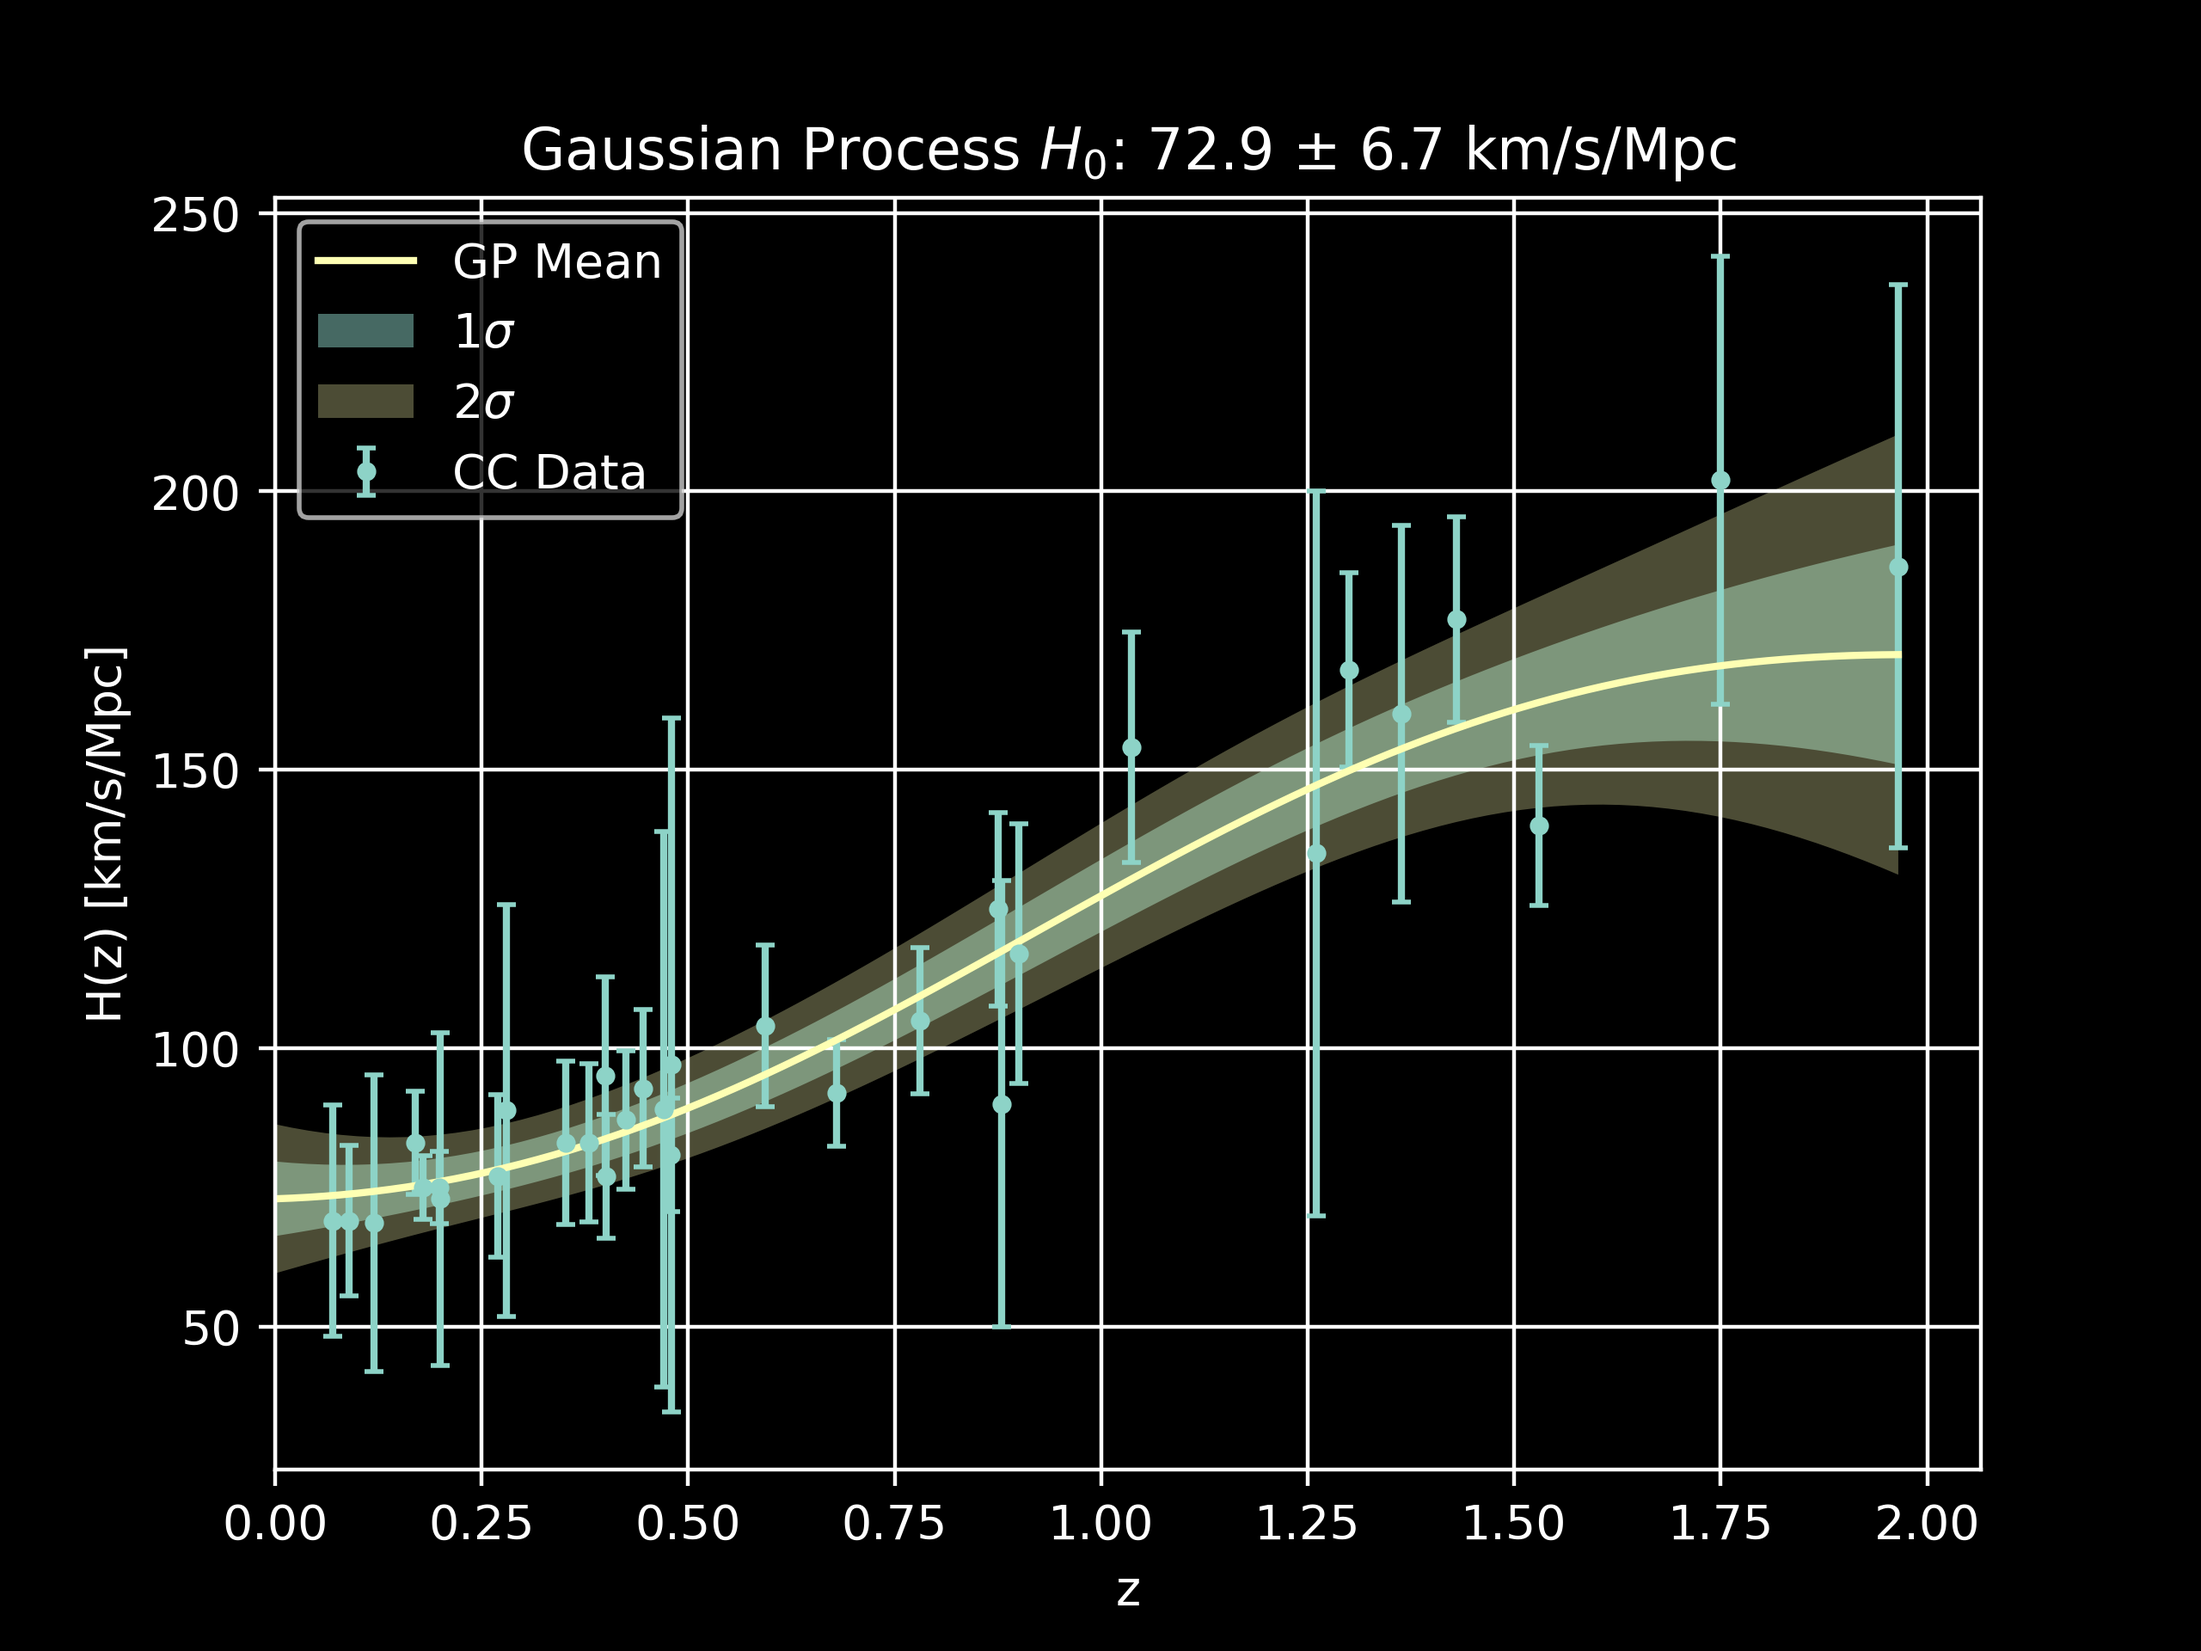
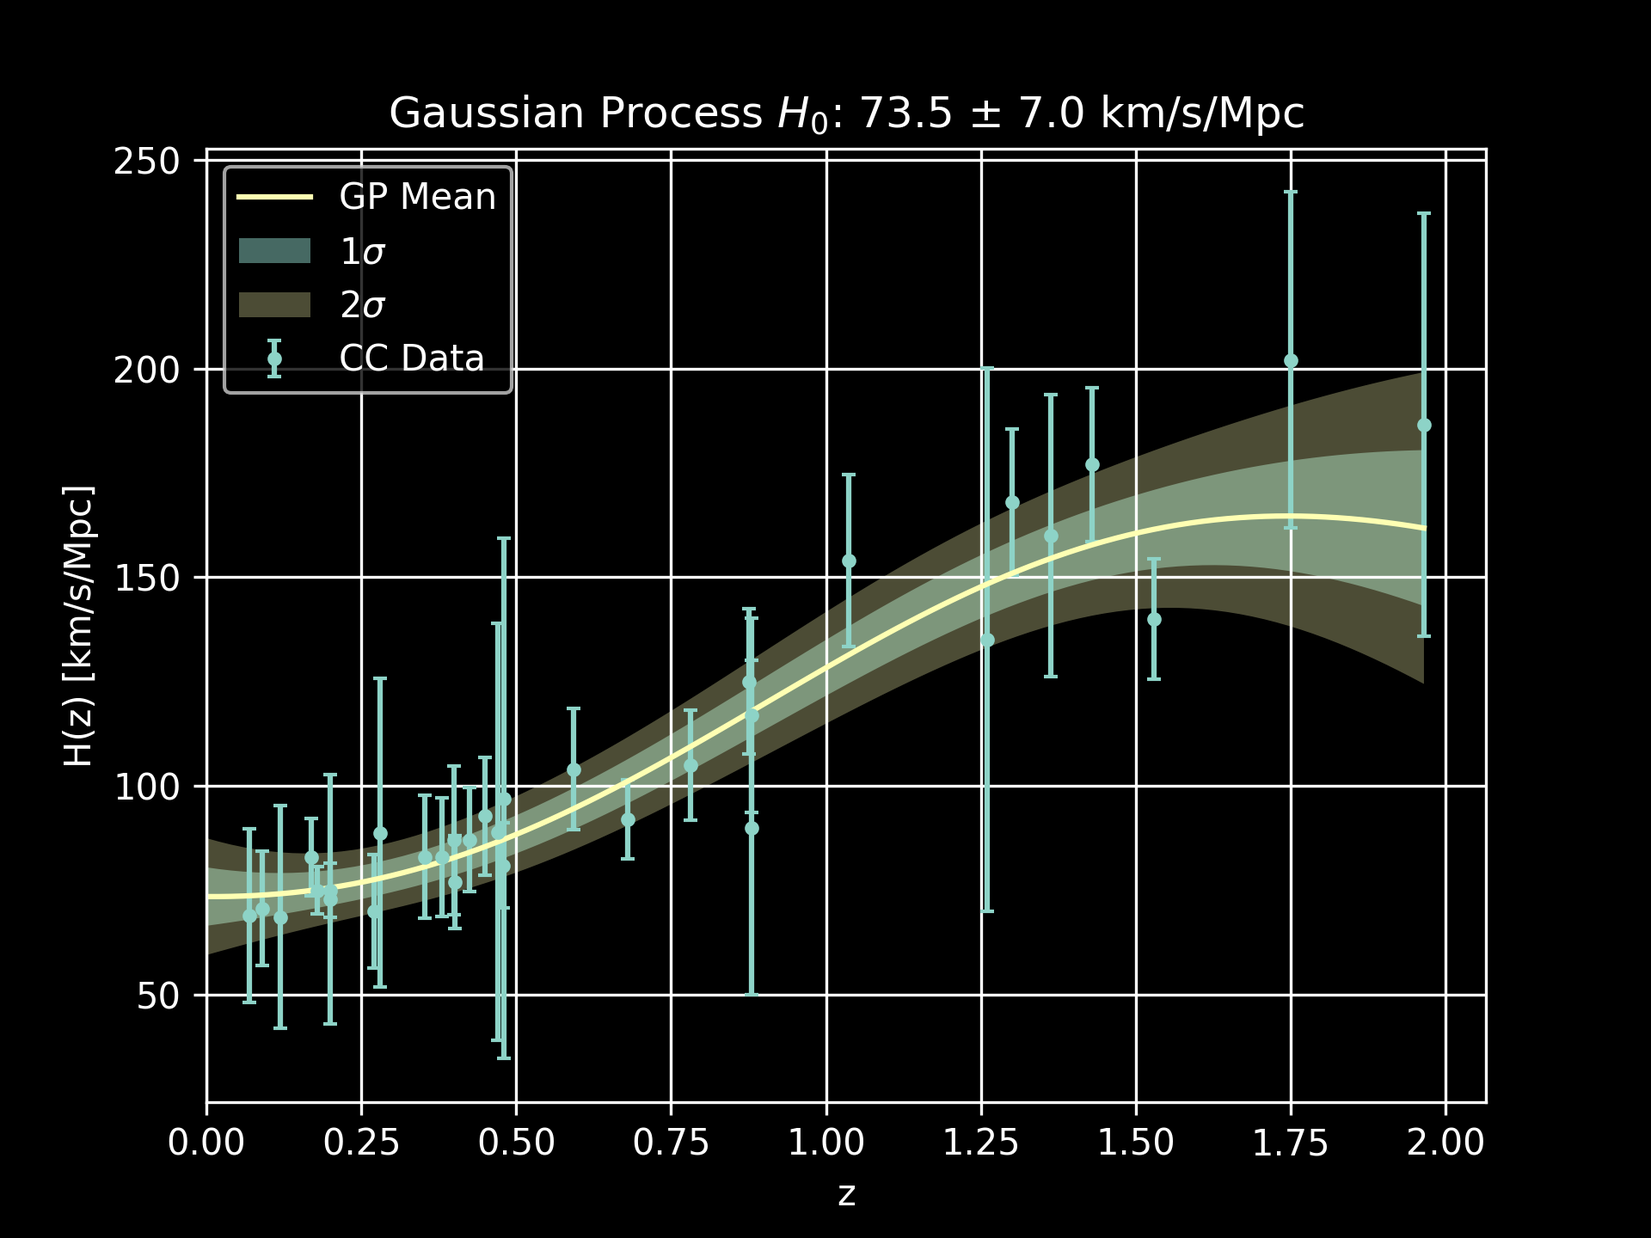
cc gp

diff --git a/cosmic_chronometers/cc_gp.py b/cosmic_chronometers/cc_gp.py
@@ -1,7 +1,11 @@
 import numpy as np
 import matplotlib.pyplot as plt
 from sklearn.gaussian_process import GaussianProcessRegressor
-from sklearn.gaussian_process.kernels import ConstantKernel as C, WhiteKernel, RBF, DotProduct
+from sklearn.gaussian_process.kernels import (
+    ConstantKernel as C,
+    WhiteKernel,
+    RBF,
+)
 from y2005cc.data import get_data
 
 legend, z_values, H_values, cov_matrix = get_data()
@@ -13,45 +17,57 @@ H_mean = np.mean(H_values)
 normalized_H = (H_values - H_mean) / H_std
 normalised_sigma = dH_values / H_std
 
-fixed_noise_to_avoid_singular_matrix = WhiteKernel(noise_level=0.005, noise_level_bounds='fixed')
-deviations_from_matter = C(0.223**2) * DotProduct(sigma_0_bounds=(1e-10, 1e2))**1.5
-kernel = C(1**2) * RBF(0.85) + deviations_from_matter + fixed_noise_to_avoid_singular_matrix
+fixed_noise_to_avoid_singular_matrix = WhiteKernel(
+    noise_level=0.005, noise_level_bounds="fixed"
+)
+kernel = C(1**2) * RBF(0.85) + fixed_noise_to_avoid_singular_matrix
 gp = GaussianProcessRegressor(
     kernel=kernel,
     alpha=normalised_sigma**2,
     normalize_y=False,
-    n_restarts_optimizer=10,
+    n_restarts_optimizer=20,
 )
-gp.fit(1 + z_values.reshape(-1,1), normalized_H.reshape(-1,1))
+gp.fit(z_values.reshape(-1, 1), normalized_H.reshape(-1, 1))
 
 z_pred = np.linspace(0, z_values.max(), 100).reshape(-1, 1)
-H_pred, cov_pred = gp.predict(1 + z_pred, return_cov=True)
+H_pred, cov_pred = gp.predict(z_pred, return_cov=True)
 cov_pred = cov_pred * H_std**2
 H_pred = H_pred * H_std + H_mean
 sigma = np.sqrt(np.diag(cov_pred))
 
-print("H0", f"{H_pred[0]:.2f} ± {sigma[0]:.2f}") # H0 72.95 ± 6.69 km/s/Mpc
-print("GP score:", gp.score(1 + z_values, normalized_H)) # 0.891
-print("GP marginal likelihood value", gp.log_marginal_likelihood_value_ - H_values.size * np.log(H_std)) # -137.05
+print("H0", f"{H_pred[0]:.2f} ± {sigma[0]:.2f}")  # H0 73.5 ± 7 km/s/Mpc
+print("GP score:", gp.score(1 + z_values, normalized_H))  # 0.881
+print(
+    "GP marginal likelihood value",
+    gp.log_marginal_likelihood_value_ - H_values.size * np.log(H_std),
+)  # -136.96
 print("GP kernel", gp.kernel_)
-print("cov mat condition number", np.linalg.cond(cov_pred)) # 667.7
+print("cov mat condition number", np.linalg.cond(cov_pred))  # 612
 
-plt.style.use('dark_background')
-plt.errorbar(z_values, H_values, yerr=dH_values, fmt='.', label='CC Data', capsize=2)
-plt.plot(z_pred, H_pred, label='GP Mean')
-plt.fill_between(z_pred.ravel(), H_pred - sigma, H_pred + sigma, alpha=0.5, label=r'$1\sigma$')
-plt.fill_between(z_pred.ravel(), H_pred - 2 * sigma, H_pred + 2 * sigma, alpha=0.3, label=r'$2\sigma$')
-plt.xlabel('z')
+plt.style.use("dark_background")
+plt.errorbar(z_values, H_values, yerr=dH_values, fmt=".", label="CC Data", capsize=2)
+plt.plot(z_pred, H_pred, label="GP Mean")
+plt.fill_between(
+    z_pred.ravel(), H_pred - sigma, H_pred + sigma, alpha=0.5, label=r"$1\sigma$"
+)
+plt.fill_between(
+    z_pred.ravel(),
+    H_pred - 2 * sigma,
+    H_pred + 2 * sigma,
+    alpha=0.3,
+    label=r"$2\sigma$",
+)
+plt.xlabel("z")
 plt.xlim(0, np.max(z_values) + 0.1)
-plt.ylabel('H(z) [km/s/Mpc]')
-plt.title(f'Gaussian Process $H_0$: {H_pred[0]:.1f} ± {sigma[0]:.1f} km/s/Mpc')
+plt.ylabel("H(z) [km/s/Mpc]")
+plt.title(f"Gaussian Process $H_0$: {H_pred[0]:.1f} ± {sigma[0]:.1f} km/s/Mpc")
 plt.legend()
 plt.grid(True)
-plt.savefig('cosmic_chronometers/cc_gp.png', dpi=400)
+plt.savefig("cosmic_chronometers/cc_gp.png", dpi=300)
 plt.close()
 
-plt.imshow(cov_pred, cmap='hot', interpolation='none')
+plt.imshow(cov_pred, cmap="hot", interpolation="none")
 plt.colorbar()
-plt.title('Covariance Matrix')
-plt.savefig('cosmic_chronometers/cc_gp_cov_matrix.png', dpi=400)
+plt.title("Covariance Matrix")
+plt.savefig("cosmic_chronometers/cc_gp_cov_matrix.png", dpi=300)
 plt.close()
